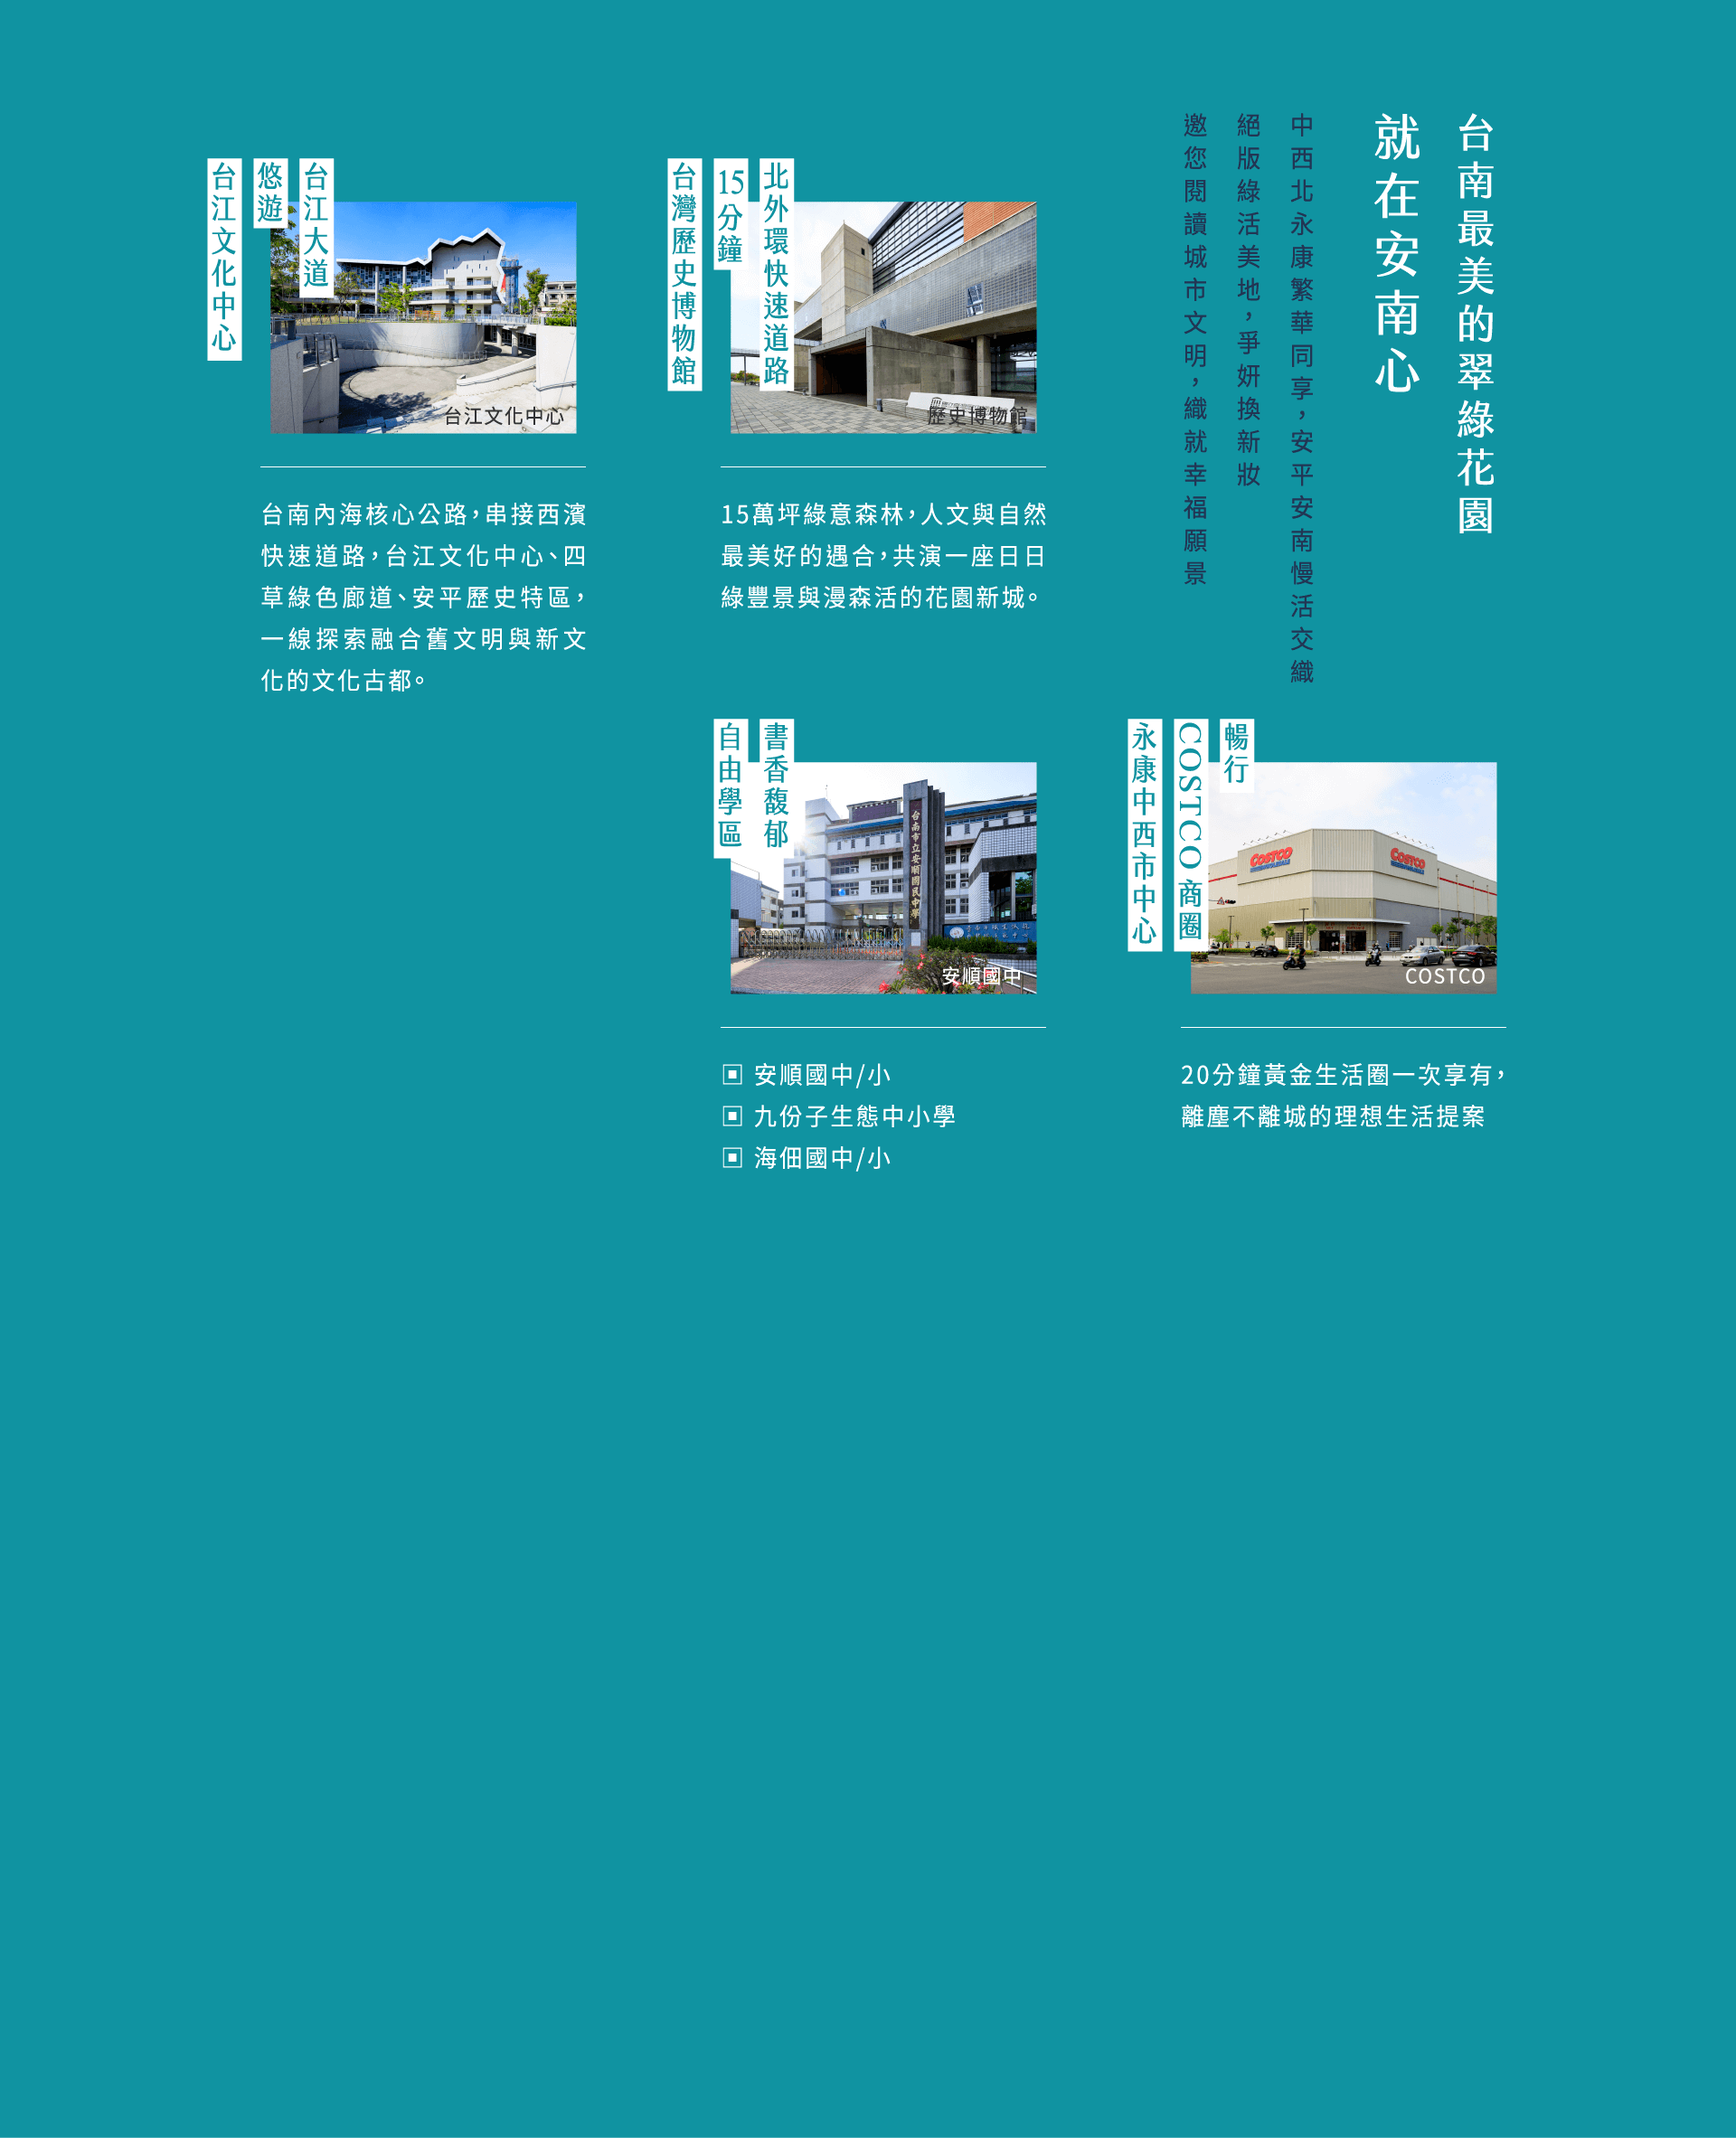
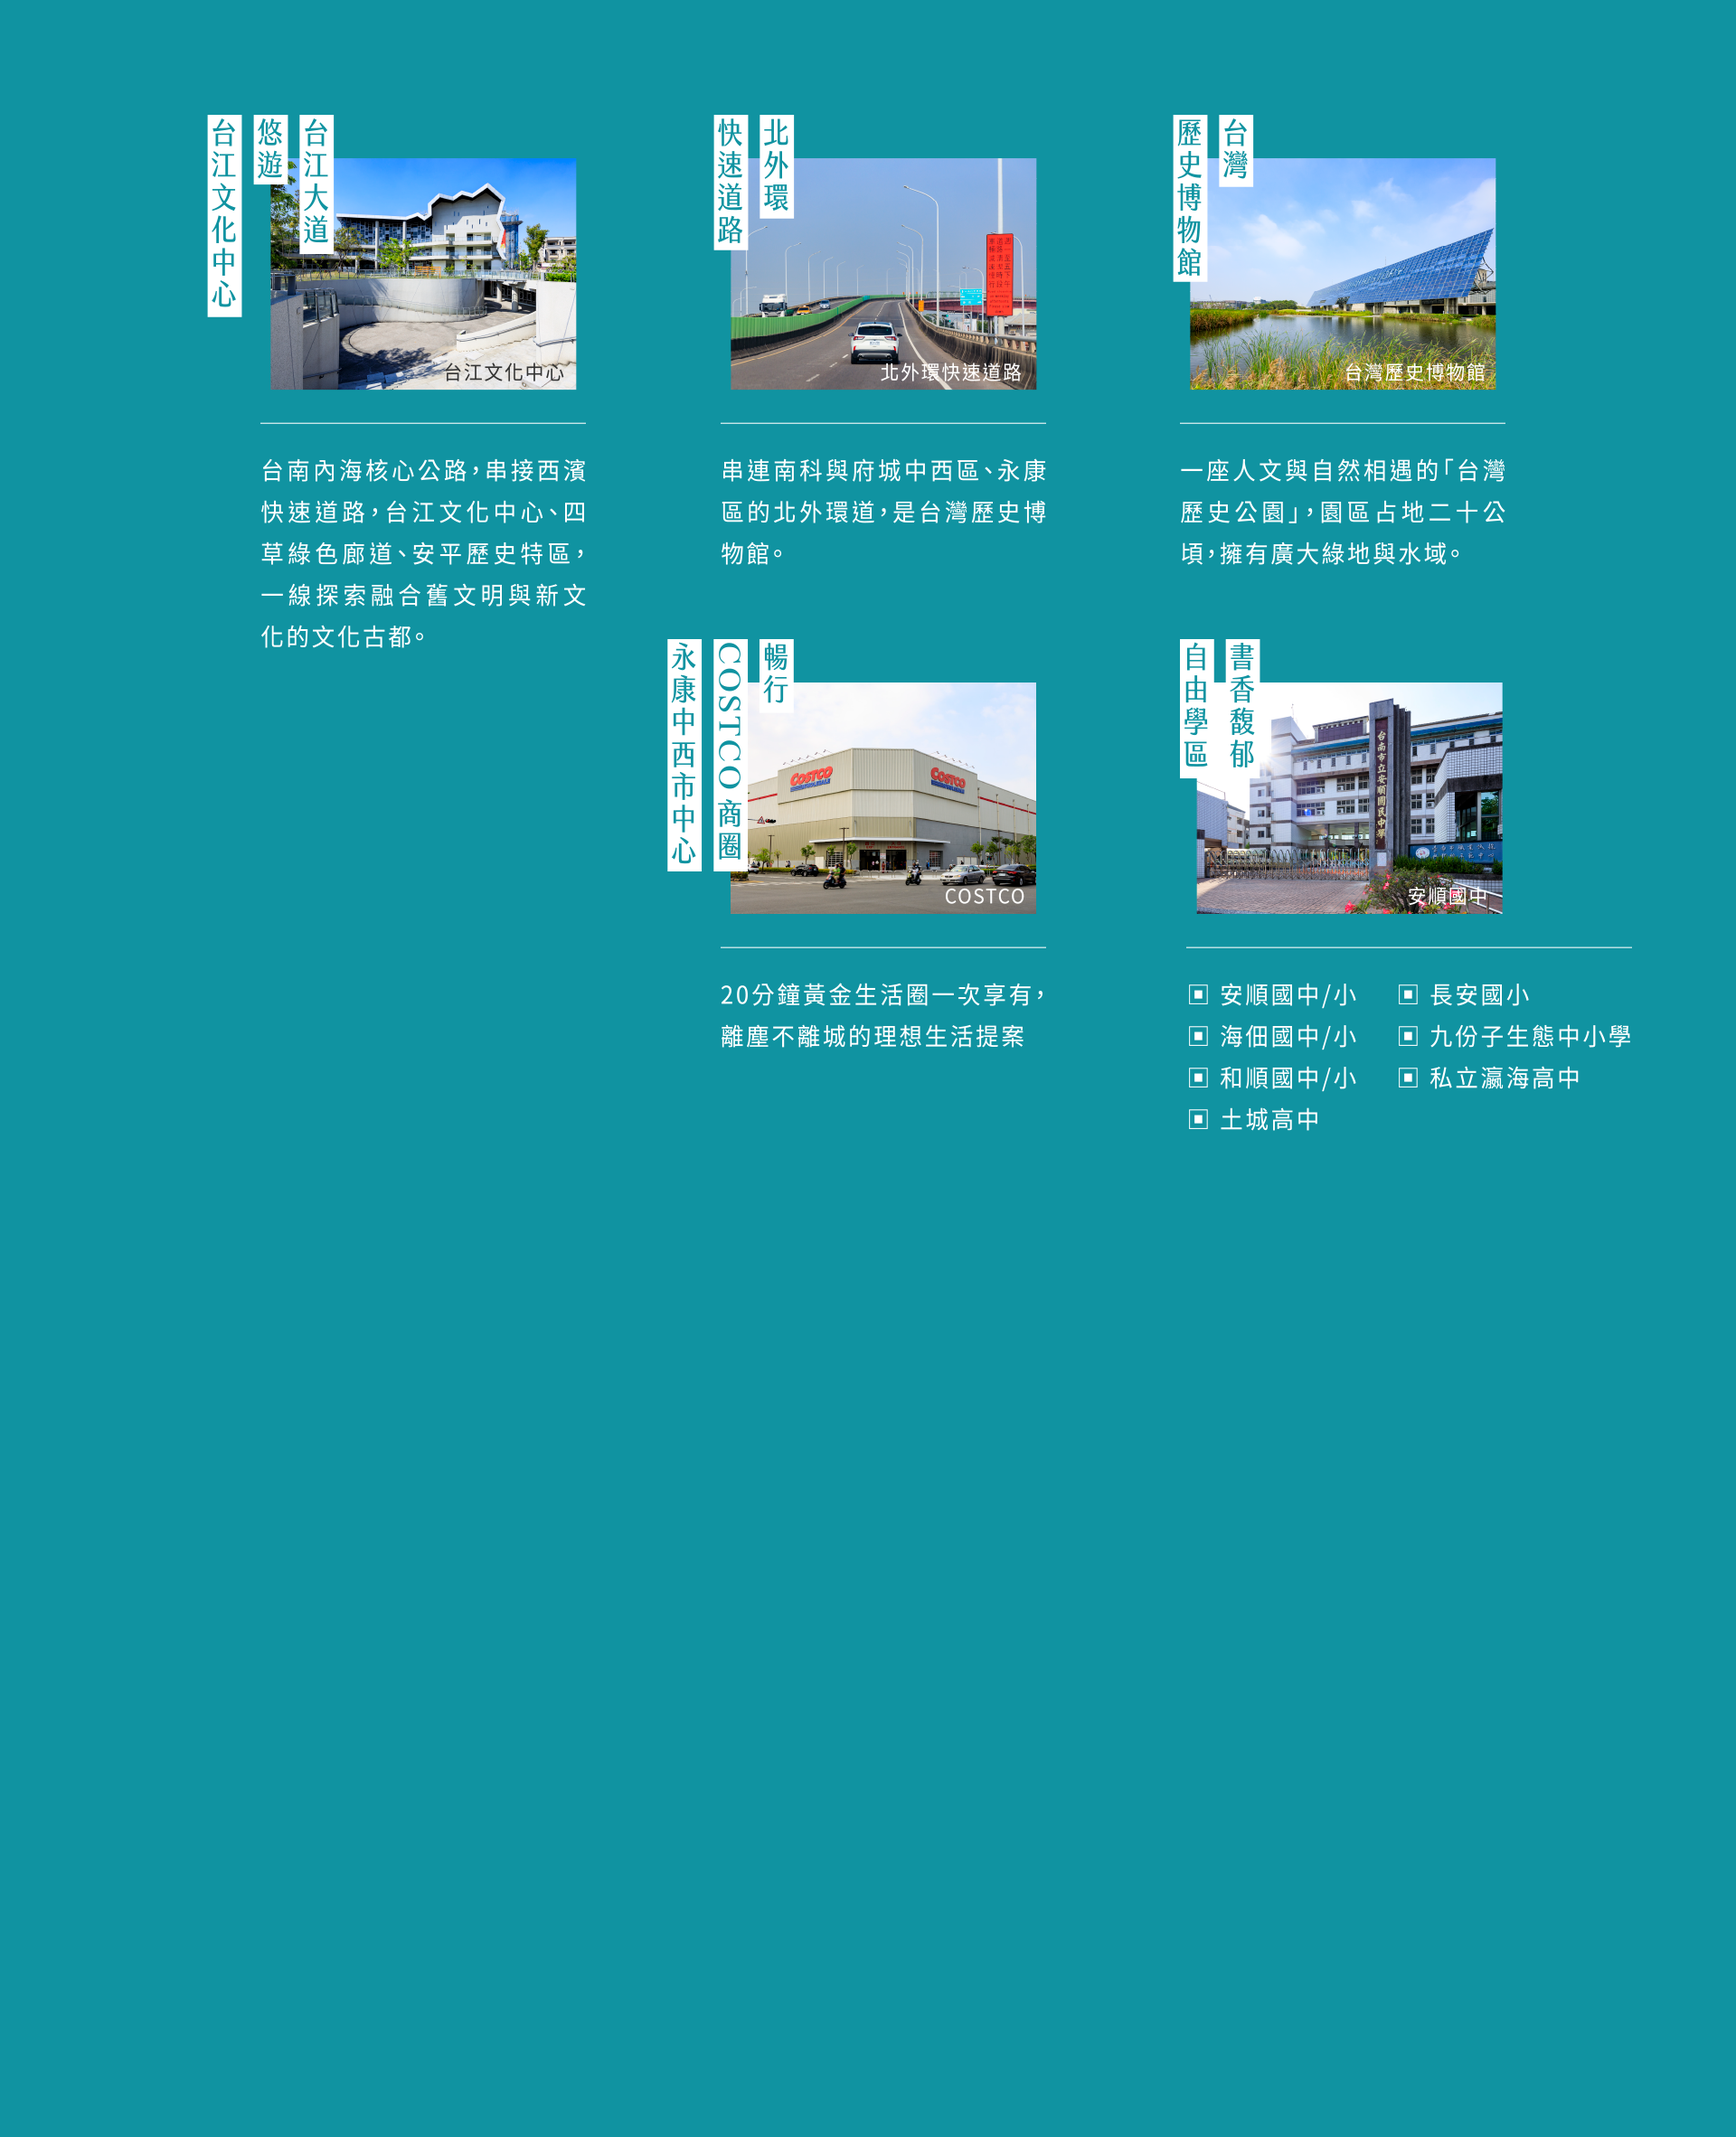
updated open page

Changed region(s): [[0.375, 0.0309, 0.9375, 0.5558], [0.0938, 0.0309, 0.3438, 0.3397]]

diff --git a/src/Page3.js b/src/Page3.js
@@ -1,6 +1,20 @@
-import React from 'react'
-
+import React,{useState} from 'react'
+import { Swiper, SwiperSlide } from 'swiper/react';
+import { Pagination } from "swiper";
+// Import Swiper styles
+import 'swiper/css';
+import "swiper/css/pagination";
 function Page3() {
+  const [swiper, setSwiper] = useState(null);
+  const [currentIndex, setCurrentIndex] = useState(0) 
+  const handleClick = (index) =>{
+    swiper.slideTo(index)
+  }
+  const imgs = [
+    {image:"p01.png"},
+    {image:"p02.png"},
+    {image:"p03.png"},
+  ]
   return (
     <div 
       className='bg-cover bg-center bg-fixed'
@@ -11,14 +25,50 @@ function Page3() {
       </div>
       <div className='flex flex-col justify-center items-center gap-10 py-20'>
         <img src={process.env.PUBLIC_URL+'/images/open/page3_pic1.png'} alt="" className='max-w-full w-4/5'/>
-        <img src={process.env.PUBLIC_URL+'/images/open/page3_pic2.png'} alt="" className='max-w-full w-5/6 mt-10'/>
+        <div className='flex mt-10 w-4/5 gap-20 py-20'>
+          <img src={process.env.PUBLIC_URL+'/images/open/page3_pic2_1.png'} alt="" className='max-w-full w-1/2'/>
+          <img src={process.env.PUBLIC_URL+'/images/open/page3_pic2_2.png'} alt="" className='max-w-full w-1/2 '/>
+        </div>
       </div>
       <div>
-        <img src={process.env.PUBLIC_URL+'/images/open/page3_imgs.png'} alt="" className='max-w-full w-full'/>
+      <Swiper
+        onSwiper={setSwiper}
+        spaceBetween={30}
+        slidesPerView={2.5}
+        loop={true}
+        pagination={{
+          clickable: true,
+        }} 
+        modules={[Pagination]}
+        centeredSlides={true}
+ 
+        className="mySwiper"
+        onSlideChange={(swiperCore)=>{
+          const {
+            activeIndex,
+            snapIndex,
+            previousIndex,
+            realIndex,
+          } = swiperCore;
+          console.log({ activeIndex, snapIndex, previousIndex, realIndex });
+          setCurrentIndex(activeIndex)
+        }}
+      >
+        {
+          imgs.map((item,index)=>{
+            return(
+              <SwiperSlide><img src={process.env.PUBLIC_URL+'/images/open/env/'+ item.image} alt="" /></SwiperSlide>
+            )
+          })
+        }
+      </Swiper>
+
+
+
       </div>
       <div className='flex flex-col justify-center items-center gap-10  relative pt-14 pb-20 lg:pb-48'>
         <img src={process.env.PUBLIC_URL+'/images/open/page3_pic3.png'} alt="" className='max-w-full w-4/5'/>
-        <img src={process.env.PUBLIC_URL+'/images/open/page3_pic4.png'} alt="" className='max-w-full w-2/6 absolute bottom-0 right-0'/>
+        <img src={process.env.PUBLIC_URL+'/images/open/page3_pic4_2.png'} alt="" className='max-w-full w-2/6 absolute -top-[40px] left-0'/>
       </div>
       <div className='flex justify-end  '>
         

diff --git a/src/Page1.js b/src/Page1.js
@@ -1,11 +1,34 @@
-import React from 'react'
+import React,{useState} from 'react'
 
 function Page1() {
+  const [isDisplay, setIsDisplay] = useState(true);
   return (
-    <div 
-      className='pt-[46.64%] w-full bg-cover bg-no-repeat bg-center'
-      style={{backgroundImage: `url(${process.env.PUBLIC_URL +'/images/open/page1_map.png'})`}}
-    ></div>
+    <div className=' w-full  relative'>
+      {isDisplay ?
+          <div className='bg-[#00000080] w-full h-full sm:min-h-70vh  absolute top-0 z-10 flex items-end justify-center lg:hidden' onClick={()=>setIsDisplay(!isDisplay)}>
+            <div className="bottom-0 w-4/5 sm:w-3/5 items-center pb-20">
+              <img src={process.env.PUBLIC_URL+'/images/section1_icon1.png'} alt="" className='w-full'/>
+
+              <img src={process.env.PUBLIC_URL+'/images/section1_icon2.png'} alt="" className='animate-slide-flow tesxt-scenter block mx-auto w-1/5'/>
+        
+            </div>
+          </div> : ''
+        }
+      <div className='aspect-[747/1200]  w-full  relative  z-0  lg:hidden overflow-x-scroll'> 
+
+        <div className='w-[300vw]  h-full lg:min-h-[70vh] overflow-x-hidden overflow-y-hidden bg-bottom bg-cover bg-no-repeat transition-width'
+          style={{backgroundImage: `url(${process.env.PUBLIC_URL +'/images/open/page1_map.png'})`}}
+        >
+        </div>
+
+
+      </div>  
+      <div
+        className='pt-[46.64%] w-full bg-cover bg-no-repeat bg-center hidden lg:block'
+       style={{backgroundImage: `url(${process.env.PUBLIC_URL +'/images/open/page1_map.png'})`}}
+       >
+      </div>
+    </div>
   )
 }
 

diff --git a/src/index.css b/src/index.css
@@ -12,3 +12,39 @@
     opacity: 1;
   }
 }
+@keyframes oxxo{
+  from{
+      /* left:0; */
+      transform: translateX(-50px);
+  }
+  to{
+      /* left:100px; */
+      transform: translateX(50px);
+  }
+}
+.swiper-backface-hidden .swiper-slide{
+  margin-bottom: 40px;
+}
+.swiper-horizontal>.swiper-pagination-bullets, 
+.swiper-pagination-bullets.swiper-pagination-horizontal, 
+.swiper-pagination-custom, .swiper-pagination-fraction {
+    bottom: 5px !important;
+}
+.swiper-pagination-bullet {
+  width: 15px !important;
+  height: 15px !important;
+  text-align: center;
+  line-height: 20px;
+  font-size: 12px;
+  color: #1F3351;
+  opacity: 1;
+  background: #1F3351 !important;
+  transition: all .5s;
+}
+
+.swiper-pagination-bullet-active {
+  color: #fff;
+  background: #1F3351 !important;
+  width: 45px !important;
+  border-radius: 25px !important;
+}

diff --git a/tailwind.config.js b/tailwind.config.js
@@ -6,6 +6,7 @@ module.exports = {
   theme: {
     extend: {
       animation: {
+        'slide-flow': 'oxxo 3s ease-in-out infinite alternate',
         'pulse-slow': 'pulse 3s linear infinite',
       }
     },
